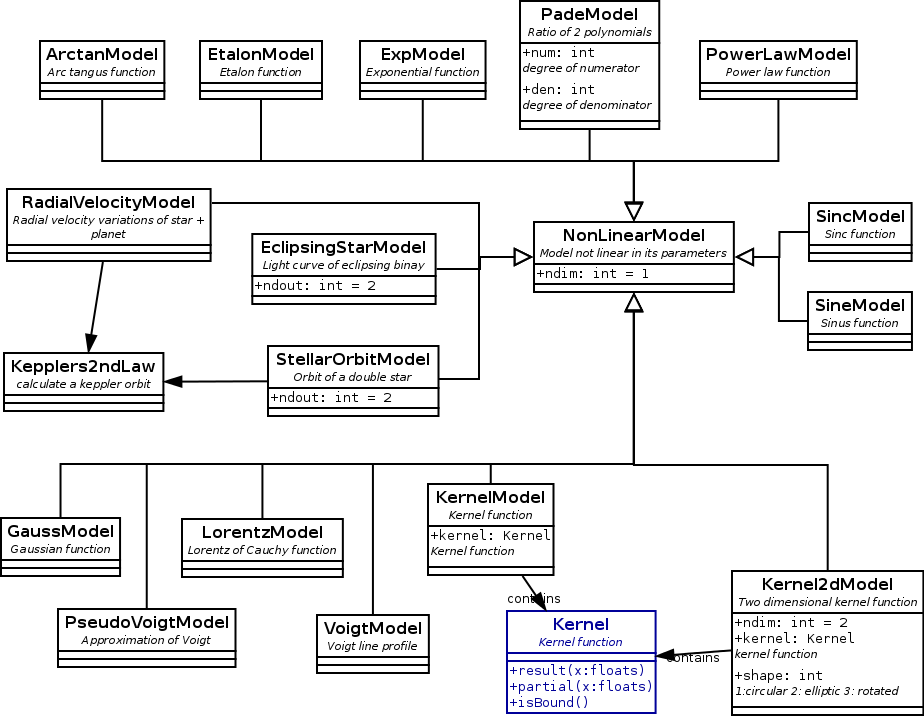
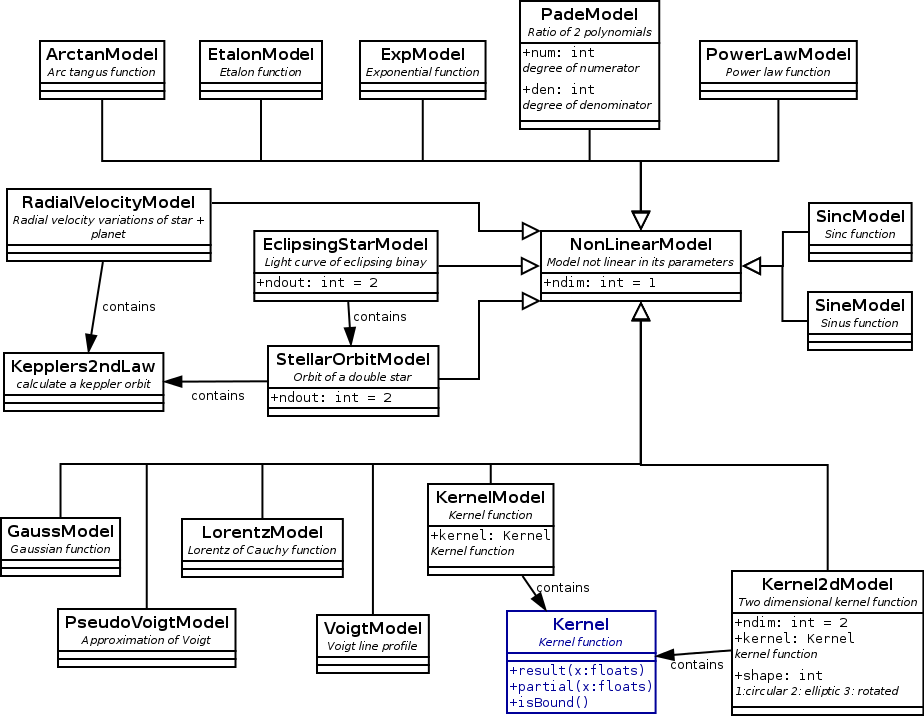
documentation

diff --git a/docs/notes.md b/docs/notes.md
@@ -43,26 +43,26 @@ To quote John Skilling on one of the Maxent conferences:
 
 Well.. It aint me, babe.
 
-## Data Quality.   
+## [Data Quality](.dataquality.md).   
 
 The [quality](./dataquality.md) note discusses the merits of defining 
 data quality in terms of accuracy versus weights.
 
-## Dimensions.  
+## [Dimensions](./Dimensions.md).
 
 High dimensional space is a confusing place to be.  With increasingly
 more space at the outskirts for higher dimensionality.  How this
 influences Nested Sampling is inverstigated in [Dimensions](./Dimensions.md). 
 
-## Prior Sampling.
+## [Prior Sampling](./Sampling.md).
 
 [Sampling](./Sampling.md) from the Prior can lead in some cases to problems.
 
-## BoundingBox
+## [BoundingBox](./BoundingBox.md).
 
 A look at [bounding boxes](./BoundingBox.md) in higher dimensions.
 
-## Splines.
+## [Splines](./splines.md).
 
 The [splines](./splines.md) note presents details on the algorithms for
 splines construction in
@@ -74,13 +74,13 @@ splines construction in
    - **Dynamic** in the number of knots
    - **Modifiable** in the position of the knots
 
-## Eclipsing Stars.
+## [Eclipsing Stars](./EclipsingStars.md).
 
 [Eclipsing Stars](./EclipsingStars.md) is a note that explains the 
 mathematics and the internal construction of the classes 
 **EclipsingStarModel** and **PeriodicScout**. 
 
-## Input and Output dimensions for Models
+## [Input and Output dimensions for Models](InOutModels.md).
 
 The layout for inputs and output of more-dimensional models is 
 documented in this [note](./InOutModels.md).

diff --git a/docs/design.md b/docs/design.md
@@ -49,7 +49,8 @@ Bayesian modelling of data or the algorithms used.
 For the mathematics look at the books of [Sivia](./references.md/#sivia), 
 [Bishop](./references.md/#bishop), [von der Linden](./references.md/#linden)
 and [Jaynes](./references.md/#jaynes) 
-and for some fitter algorithms [Press](./references.md/#press). 
+and for some fitter algorithms [Press](./references.md/#press) and 
+for a nested sampling algorithm, again [Sivia](./references.md/#sivia). 
 
 
 <a name="modelclasses"></a>
@@ -84,7 +85,7 @@ relationship between the classes, which is written next to it.
 <td style="width: 10px;">  </td>
 <td style="width: 350px; text-align: left;">
 Figure 1. Class hierarchy diagram for models. 
-Blue boxes refer to further hierachy diagrams.
+Blue boxes refer to further hierarchy diagrams.
 </td></tr>
 </table>
 <p.
